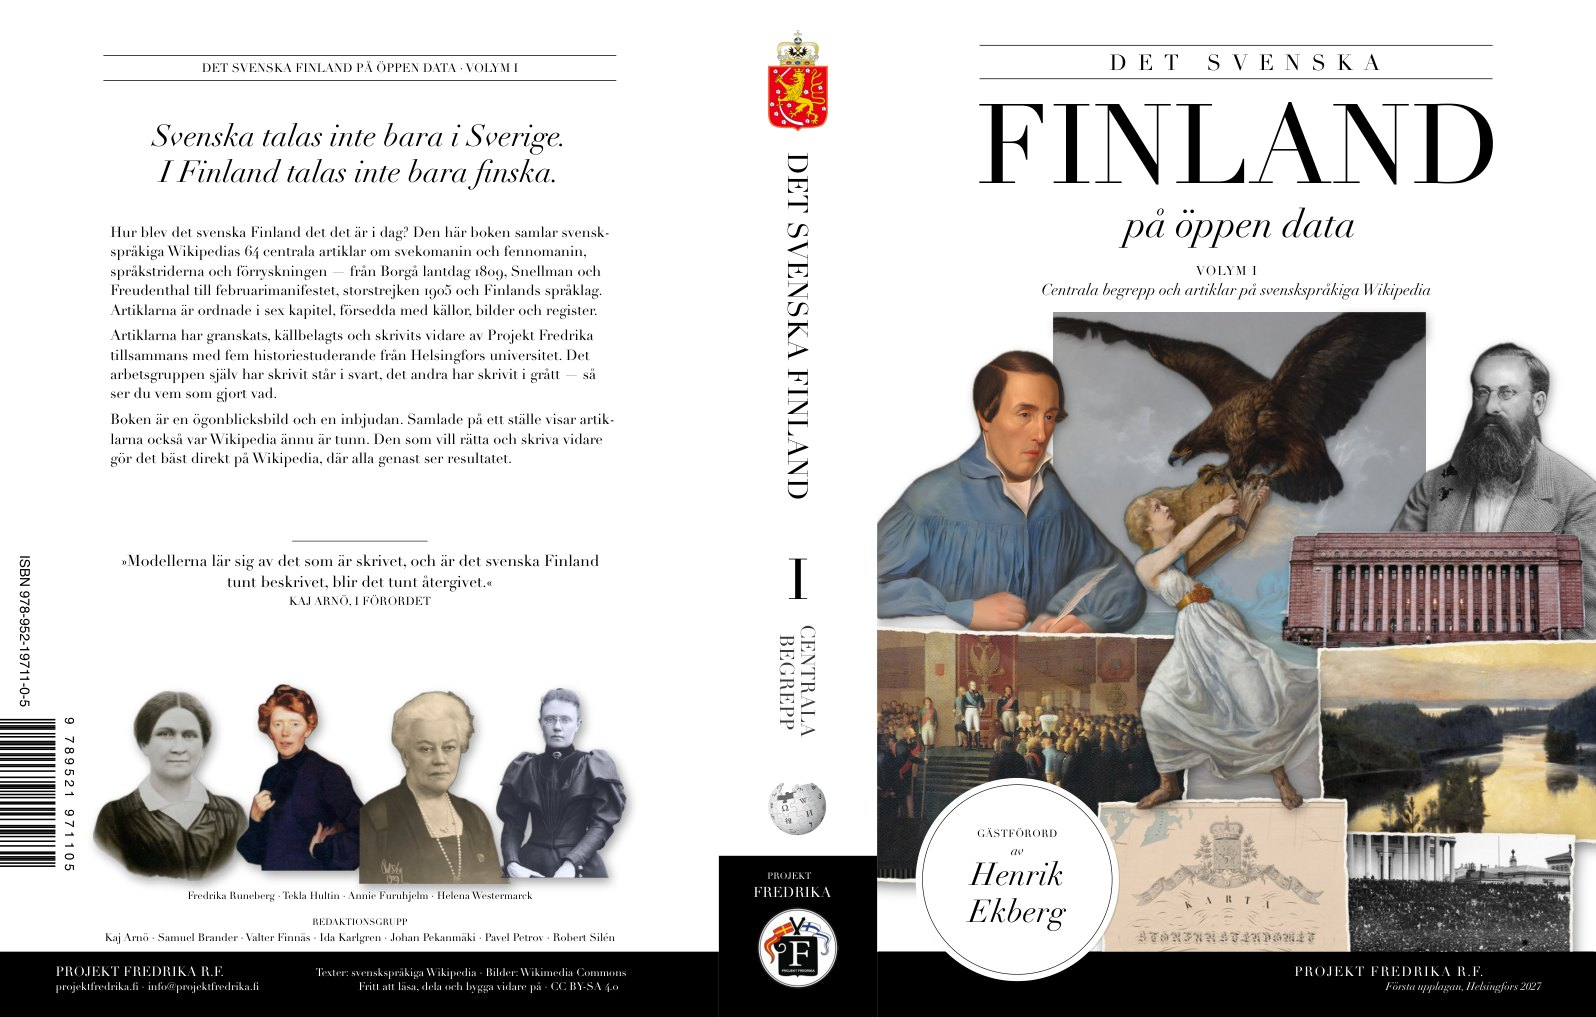
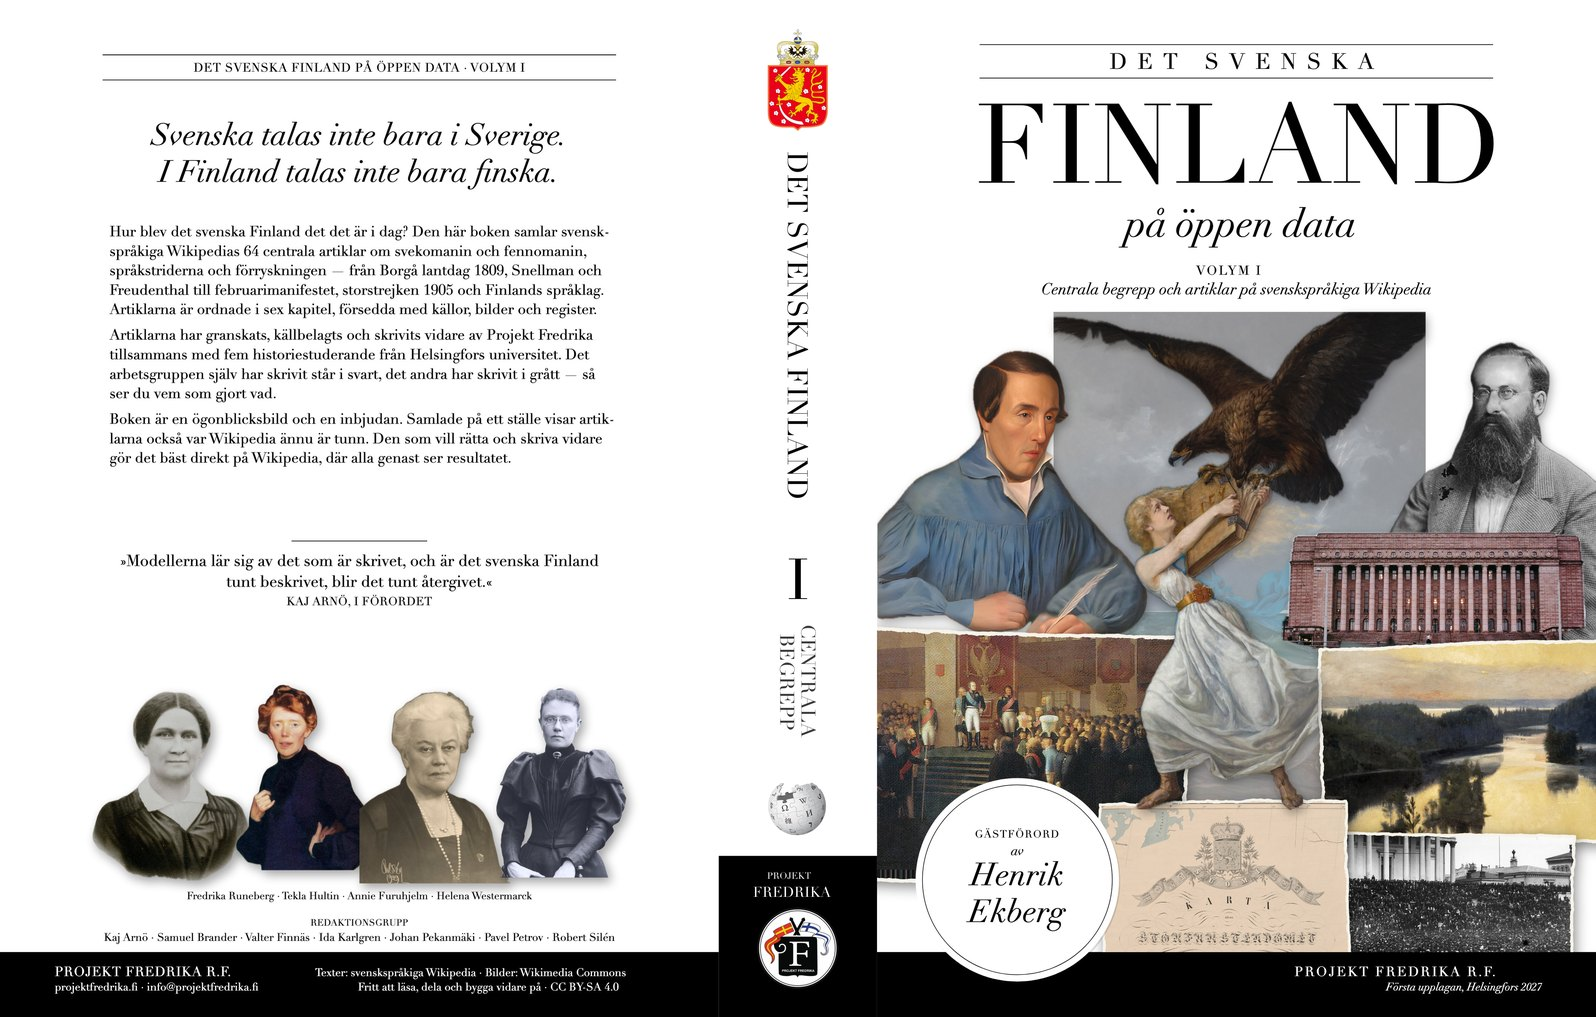
Visa frampärmen med riktig bildtext, och rensa streckkoden ur omslaget
Sidan visar nu frampärmen ensam, i en <figure> med <figcaption>, så att
bildtexten hör ihop med bilden i stället för att vara ett stycke under
den. Temat saknade helt figurstilar; de nya reglerna sätter bildtexten
kursiv och centrerad, och håller stående omslag på 420 px så att de inte
fyller en hel skärm.

Reservbilden med hela omslaget är ombyggd utan streckkod: baksidan tas
ur nätversionens pärm, ryggen ur tryckfilen.

diff --git a/fredrika-xmag/themes/hugo-xmag/static/css/style.css b/fredrika-xmag/themes/hugo-xmag/static/css/style.css
@@ -243,3 +243,25 @@ tr:nth-child(even) { background: #eee }
 .finsvetekniker p {font-family: Vollkorn, Georgia; font-size: 12pt; }
 .finsvetekniker h1 {font-family: Vollkorn, Georgia; font-size: 18pt; }
 .finsvetekniker h2 {font-family: Vollkorn, Georgia; font-size: 14pt; }
+
+figure {
+  margin: 1.5em 0;
+}
+
+/* Stående bokomslag: fullbredd blir orimligt högt */
+figure.omslag {
+  max-width: 420px;
+  margin: 1.5em auto;
+}
+
+figure img {
+  max-width: 100%;
+  height: auto;
+}
+
+figcaption {
+  font-style: italic;
+  text-align: center;
+  font-size: 0.9em;
+  margin-top: 0.5em;
+}

diff --git a/fredrika-xmag/content/skrifter.md b/fredrika-xmag/content/skrifter.md
@@ -3,7 +3,7 @@ title: Projekt Fredrikas skrifter
 url: "/skrifter/"
 author: Robert
 toc: false
-images: ['/img/omslag-volym-i-helt.jpg']
+images: ['/img/omslag-volym-i-fram.jpg']
 showImage: false
 ---
 
@@ -11,9 +11,10 @@ showImage: false
 
 **Projekt Fredrikas skrifter** är den skriftserie där [Projekt Fredrika r.f.](/om/) ger ut böcker byggda på öppna data och fritt licensierat innehåll. Serien börjar 2027, och namnet kommer av föreningens namn. Skriftserien i sig är kontinuerlig utan gräns.
 
-![Omslaget till Volym I: baksida, rygg och framsida.](/img/omslag-volym-i-helt.jpg)
-
-Första boken i serien. [Klicka här för att ladda ner som PDF](https://github.com/projekt-fredrika/projektfredrika.fi/releases/download/v1.0.0/Det_svenska_Finland_pa_oppen_data_Volym_I.pdf).
+<figure class="omslag">
+<img src="/img/omslag-volym-i-fram.jpg" alt="Frampärmen till Det svenska Finland på öppen data, Volym I.">
+<figcaption>Första boken i serien. <a href="https://github.com/projekt-fredrika/projektfredrika.fi/releases/download/v1.0.0/Det_svenska_Finland_pa_oppen_data_Volym_I.pdf">Klicka här för att ladda ner som PDF</a>.</figcaption>
+</figure>
 
 Tanken är enkel. Vi analyserar och förbättrar artiklarna om det svenska Finland på Wikipedia, Wikidata och Wikimedia Commons tills de håller för tryck, och sätter om dem till böcker som går att läsa från första till sista sidan, ställa i en hylla och ge bort. Artiklarna står samtidigt kvar fria att läsa, använda och redigera vidare. Metoden är beprövad: så gjorde föreningen [Uppslagsverket Nagu](/uppslagsverket-nagu/) år 2019, och det är den vi nu upprepar med ämnesexperter.
 
